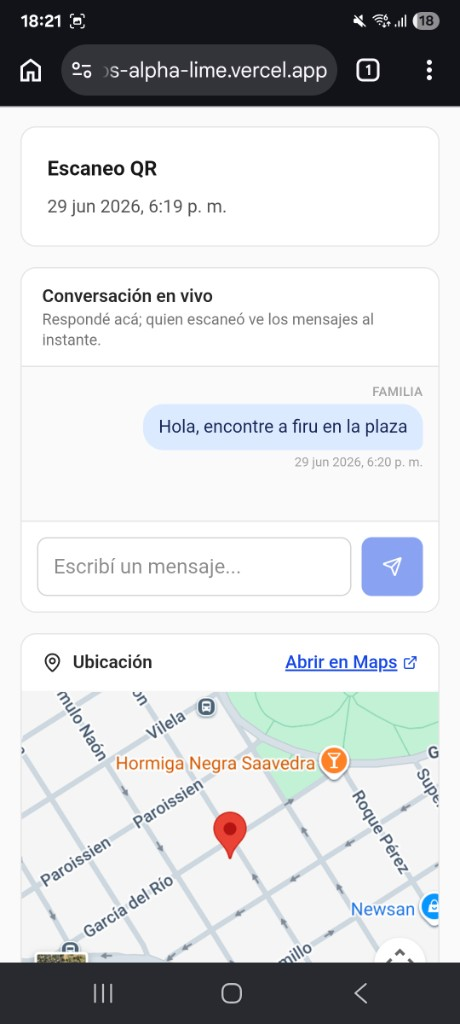
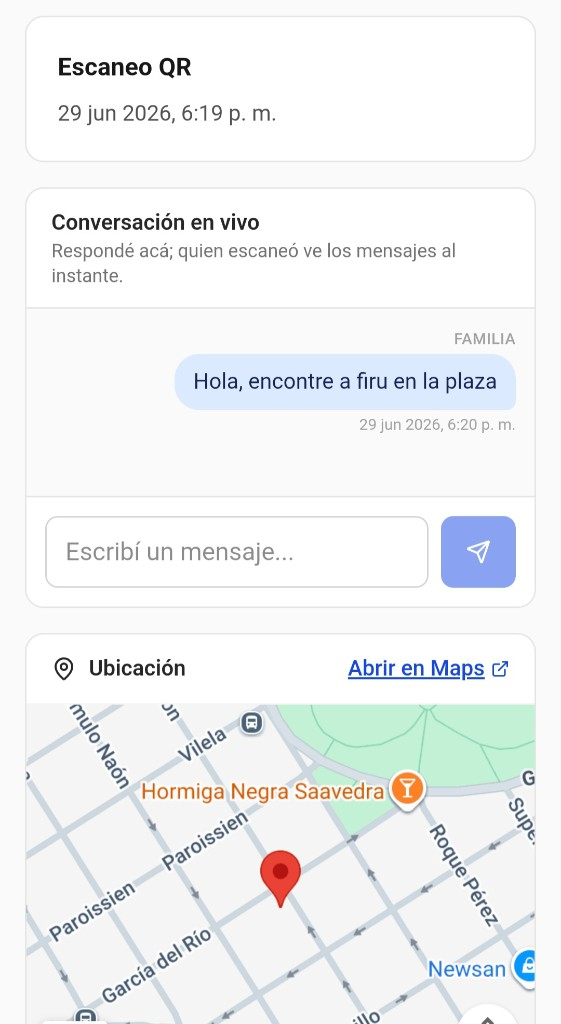
Update how-it-works screenshots with latest production captures and add public profile step.

diff --git a/src/app/page.tsx b/src/app/page.tsx
@@ -78,21 +78,28 @@ const HOW_IT_WORKS = [
     title: "Escanean tu QR",
     text: "Quien encuentra la mascota, valija o credencial abre el perfil y puede compartir ubicación al instante.",
     image: "/images/landing/screenshots/scan-location.png",
-    imageAlt: "Pantalla de SOSme pidiendo compartir ubicación al escanear el QR de una mascota",
+    imageAlt: "Pantalla de SOSme con mensaje de gracias por ayudar y botón para compartir ubicación",
   },
   {
     step: "2",
-    title: "Conversan en vivo",
-    text: "Chat entre quien está en el lugar y la familia, con mapa y detalle del escaneo en tu panel.",
+    title: "Contactan al instante",
+    text: "Llamada, WhatsApp y chat en vivo desde la pantalla pública — sin instalar nada.",
+    image: "/images/landing/screenshots/public-profile.png",
+    imageAlt: "Perfil público de SOSme con contactos de emergencia y conversación en vivo",
+  },
+  {
+    step: "3",
+    title: "Seguís todo en el panel",
+    text: "Mapa, mensajes y detalle del escaneo en tiempo real desde tu celular.",
     image: "/images/landing/screenshots/live-chat-map.png",
     imageAlt: "Panel de SOSme con conversación en vivo y mapa de ubicación",
   },
   {
-    step: "3",
+    step: "4",
     title: "Recibís la alerta",
-    text: "Notificación push al celular cuando hay escaneo, mensaje o SOS — sin abrir la app.",
+    text: "Notificación push al celular cuando hay escaneo, mensaje o ubicación — un toque y entrás.",
     image: "/images/landing/screenshots/push-alert.png",
-    imageAlt: "Notificación push de SOSme con alerta de ubicación",
+    imageAlt: "Notificación push de SOSme con alerta de ubicación de Firu",
   },
 ] as const;
 
@@ -242,7 +249,7 @@ export default function HomePage() {
                 Probado en la calle: ubicación, chat y notificación push en un solo flujo.
               </p>
             </div>
-            <ol className="mt-14 grid gap-10 lg:grid-cols-3">
+            <ol className="mt-14 grid gap-10 sm:grid-cols-2 lg:grid-cols-4">
               {HOW_IT_WORKS.map(({ step, title, text, image, imageAlt }) => (
                 <li key={step} className="flex flex-col">
                   <div className="overflow-hidden rounded-2xl border border-neutral-200/80 bg-white shadow-lg shadow-violet-500/10">